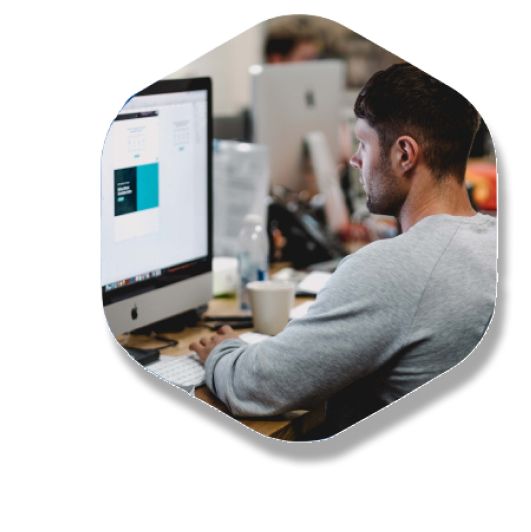
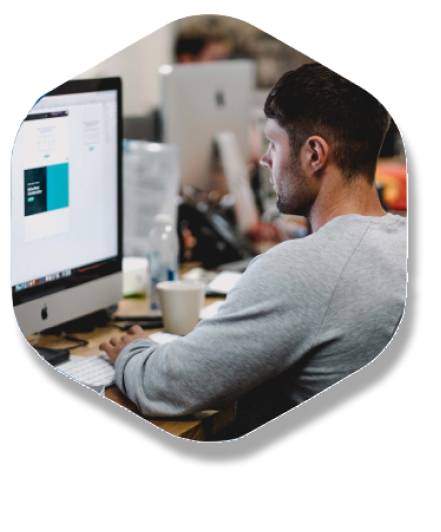
end?

diff --git a/index.html b/index.html
@@ -8,14 +8,15 @@
   <link rel="preconnect" href="https://fonts.gstatic.com" crossorigin>
   <link href="https://fonts.googleapis.com/css2?family=Inter:wght@700&family=Raleway:wght@500;600&family=Red+Hat+Display:wght@400;600;700;800&display=swap" rel="stylesheet">
   <link rel="stylesheet" href="src/style.css">
+  <link rel="stylesheet" href="src/adaptive.css">
   <script src="src/index.js"></script>
   <title>Поиск работы</title>
 </head>
 <body>
-  <footer>
+  <header>
     <div class="container">
       <div class="title-part">
-        <h1 class="site-name">Working</h1>
+        <p class="site-name">Working</p>
         <nav>
           <ul>
             <li><a href="#">Поиск работы</a></li>
@@ -28,7 +29,7 @@
         <button class="sign-in">Вход</button>
       </div>
     </div>
-  </footer>
+  </header>
   <section class="main__page">
     <div class="container">
       <div class="first-column">
@@ -48,13 +49,13 @@
     <div class="container">
       <p>Помогаем найти работу</p>
       <div class="social-links">
-        <img src="src/images/social media/YouTube.svg" alt="">
-        <img src="src/images/social media/What.svg" alt="">
-        <img src="src/images/social media/Viber.svg" alt="">
-        <img src="src/images/social media/Insta.svg" alt="">
-        <img src="src/images/social media/Twit.svg" alt="">
-        <img src="src/images/social media/Vk.svg" alt="">
-        <img src="src/images/social media/Face.svg" alt="">
+        <img src="src/images/social-media/YouTube.svg" alt="">
+        <img src="src/images/social-media/What.svg" alt="">
+        <img src="src/images/social-media/Viber.svg" alt="">
+        <img src="src/images/social-media/Insta.svg" alt="">
+        <img src="src/images/social-media/Twit.svg" alt="">
+        <img src="src/images/social-media/Vk.svg" alt="">
+        <img src="src/images/social-media/Face.svg" alt="">
       </div>
     </div>
   </section>
@@ -63,23 +64,23 @@
       <h2>Работа <br> по категориям</h2>
       <div class="work-cards">
         <div class="card">
-          <img src="src/images/work cards/Банк.svg" alt="">
+          <img src="src/images/work-cards/Банк.svg" alt="">
           <p>Финансы</p>
         </div>
         <div class="card">
-          <img src="src/images/work cards/Скорая.svg" alt="">
+          <img src="src/images/work-cards/Скорая.svg" alt="">
           <p>Медицина</p>
         </div>
         <div class="card">
-          <img src="src/images/work cards/Ресторан.svg" alt="">
+          <img src="src/images/work-cards/Ресторан.svg" alt="">
           <p>Ресторан</p>
         </div>
         <div class="card">
-          <img src="src/images/work cards/Медиа.svg" alt="">
+          <img src="src/images/work-cards/Медиа.svg" alt="">
           <p>Мультимедиа</p>
         </div>
         <div class="card">
-          <img src="src/images/work cards/Образование.svg" alt="">
+          <img src="src/images/work-cards/Образование.svg" alt="">
           <p>Образование</p>
         </div>
       </div>
@@ -94,7 +95,7 @@
       <p class="title-desc">Найди работу своей мечты прямо сейчас</p>
       <div class="vacancy-cards">
         <div class="card">
-          <p class="title-card">Финансы</p>
+          <p class="title-card green">Финансы</p>
           <p class="vacancy-desc">Менеджер <br> по управлению финансами <br> в крупной компании</p>
           <p class="vacancy-city">Москва</p>
           <div class="company">
@@ -103,7 +104,7 @@
           </div>
         </div>
         <div class="card">
-          <p class="title-card">Грузоперевозки</p>
+          <p class="title-card dark-blue">Грузоперевозки</p>
           <p class="vacancy-desc">Водитель на дальние <br> станции</p>
           <p class="vacancy-city">Санкт-Петербург</p>
           <div class="company">
@@ -112,7 +113,7 @@
           </div>
         </div>
         <div class="card">
-          <p class="title-card">Дизайн</p>
+          <p class="title-card blue">Дизайн</p>
           <p class="vacancy-desc">Дизайнер интерьера в <br> профессиональную <br>
              студию в центре города
           </p>
@@ -123,7 +124,34 @@
           </div>
         </div>
       </div>
+      <div class="wrapper-more-vacancies">
+        <button class="more-vacancies">Больше вакансий</button>
+      </div>
     </div>
   </section>
+  <footer>
+    <div class="container">
+      <p class="footer-title">Популярные города</p>
+      <ul class="cities">
+        <li>Москва</li>
+        <li>Санкт-Петербург</li>
+        <li>Кострома</li>
+        <li>Екатеринбург</li>
+        <li>Н.Новгород</li>
+        <li>Ярославль</li>
+      </ul>
+      <div class="logo-urls">
+        <div class="logo">
+         <p class="site-name">Working</p>
+        </div>
+        <div class="urls">
+          <img src="src/images/footer-logos/Telegram.svg" alt="">
+          <img src="src/images/footer-logos/Twitter.svg" alt="">
+          <img src="src/images/footer-logos/Instagram.svg" alt="">
+          <img src="src/images/footer-logos/Facebook.svg" alt="">
+        </div>
+      </div>
+    </div>
+  </footer>
 </body>
 </html>

diff --git a/src/style.css b/src/style.css
@@ -15,7 +15,7 @@ body{
   margin: 0 auto;
 }
 
-footer .container{
+header .container{
   justify-content: space-between;
 }
 
@@ -110,7 +110,6 @@ nav li{
   color:#5B5B5B;
 }
 
-
 .job:focus{
   outline: none;
 }
@@ -118,7 +117,6 @@ nav li{
 .city:focus{
   outline: none;
 }
-
 
 .work-search .search{
   background: #84B3B0;
@@ -132,13 +130,10 @@ nav li{
 }
 
 .second-column{
+  margin-left: 30px;
   align-items: center;
 }
 
-.second-column img{
-  width: 100%;
-
-}
 
 .social-media{
   background: #FFFFFF;
@@ -180,6 +175,8 @@ nav li{
   border-radius: 50px;
   padding: 37px 37px 54px 37px;
   font-size: 20px;
+  box-shadow: 0px 11px 85px 0px #00000057;
+
 }
 
 .work-types .card img{
@@ -206,6 +203,7 @@ nav li{
   border: none;
   margin-top: 78px;
   font-size: 20px;
+  box-shadow: 38px 11px 85px 0px #00000057;
 }
 
 .new-vacancies .container{
@@ -218,6 +216,10 @@ nav li{
   color: #4F4A4A;
 }
 
+.new-vacancies .card{
+  min-width: 400px;
+}
+
 .vacancy-cards{
   display: flex;
   margin-top: 80px;
@@ -228,14 +230,40 @@ nav li{
   background: #FFFFFF;
   padding: 26px 29px;
   border-radius: 37px;
+  box-shadow: 38px 11px 85px 0px #00000057;
+
 }
+
+.title-card::before{
+  content: '';
+  display: inline-block;
+  left: 0;
+  margin-right: 12px;
+  width: 10px;
+  height: 10px;
+}
+
+.green::before{
+  background: url(images/vacancy-cards/green.svg) no-repeat;
+}
+
+.dark-blue::before{
+  background: url(images/vacancy-cards/dark-blue.svg) no-repeat;
+}
+
+.blue::before{
+  background: url(images/vacancy-cards/blue.svg) no-repeat;
+}
+
 
 .title-card{
   font-size: 16px;
   color: #00000087;
+  font-weight: 600;
 }
 
 .vacancy-desc{
+  margin-top: 20px;
   font-size: 20px;
 }
 
@@ -244,15 +272,14 @@ nav li{
   position: absolute;
   display: inline-block;
   left: -1px;
-  margin-right: 10px;
   width: 15px;
   height: 25px;
-  background: url(images/vacancy-cards/vacancy-city.png) no-repeat;
+  background: url(images/vacancy-cards/vacancy-city.svg) no-repeat;
 }
 
 .vacancy-city{
   position: relative;
-  margin-top: 10px;
+  margin-top: 15px;
   padding-left: 20px;
 }
 
@@ -268,3 +295,66 @@ nav li{
   margin-right: 15px;
 }
 
+.wrapper-more-vacancies{
+  display: flex;
+  justify-content: center;
+}
+
+.more-vacancies{
+  background: #FFFFFF;
+  padding: 27px 28px;
+  border-radius: 50px;
+  border: none;
+  margin: 78px 0;
+  font-size: 20px;
+  box-shadow: 38px 11px 85px 0px #00000057;
+}
+
+footer{
+  background: #FFFFFF;
+}
+
+footer .container{
+  flex-direction: column;
+}
+
+.footer-title{
+  margin-top: 72px;
+  font-size: 24px;
+}
+
+.cities{
+  margin-top: 37px;
+  font-size: 20px;
+  justify-content: space-between;
+  display: flex;
+  flex-direction: row;
+}
+
+footer li{
+  list-style-type: none;
+}
+
+.logo-urls{
+  display: grid;
+  grid-template-columns: 1fr 1fr 1fr;
+  margin: 67px 0 48px 0;
+}
+
+.logo{
+  display: flex;
+  justify-content: center;
+  grid-column-start: 1;
+  grid-column-start: 2;
+}
+
+.logo>.site-name{
+  margin-top: 0px;
+}
+
+.urls{
+  gap: 26px;
+  display: flex;
+  align-items: center;
+  justify-content: right;
+}

diff --git a/src/adaptive.css b/src/adaptive.css
@@ -1,0 +1,11 @@
+@media screen and (max-width: 1335px){
+  .second-column img{
+    width: 350px;
+    height: 450px;
+  }
+
+  .main__page .container{
+    justify-content: space-between;
+  }
+  
+}
